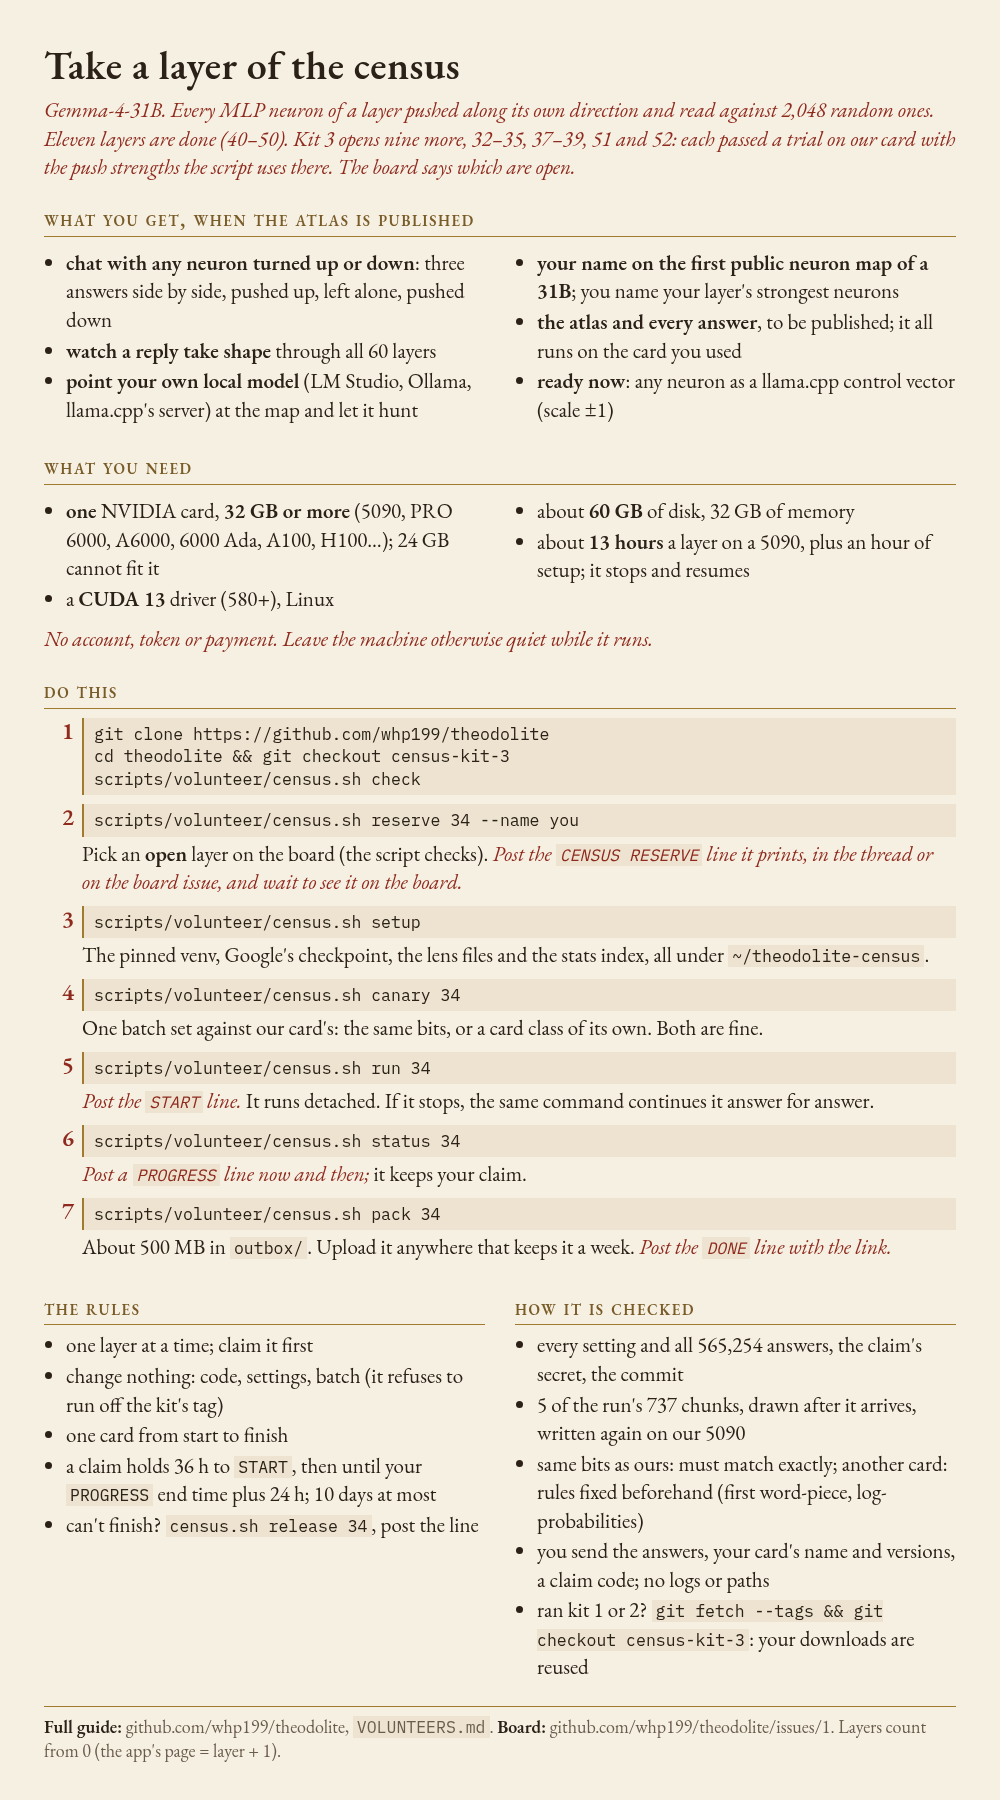
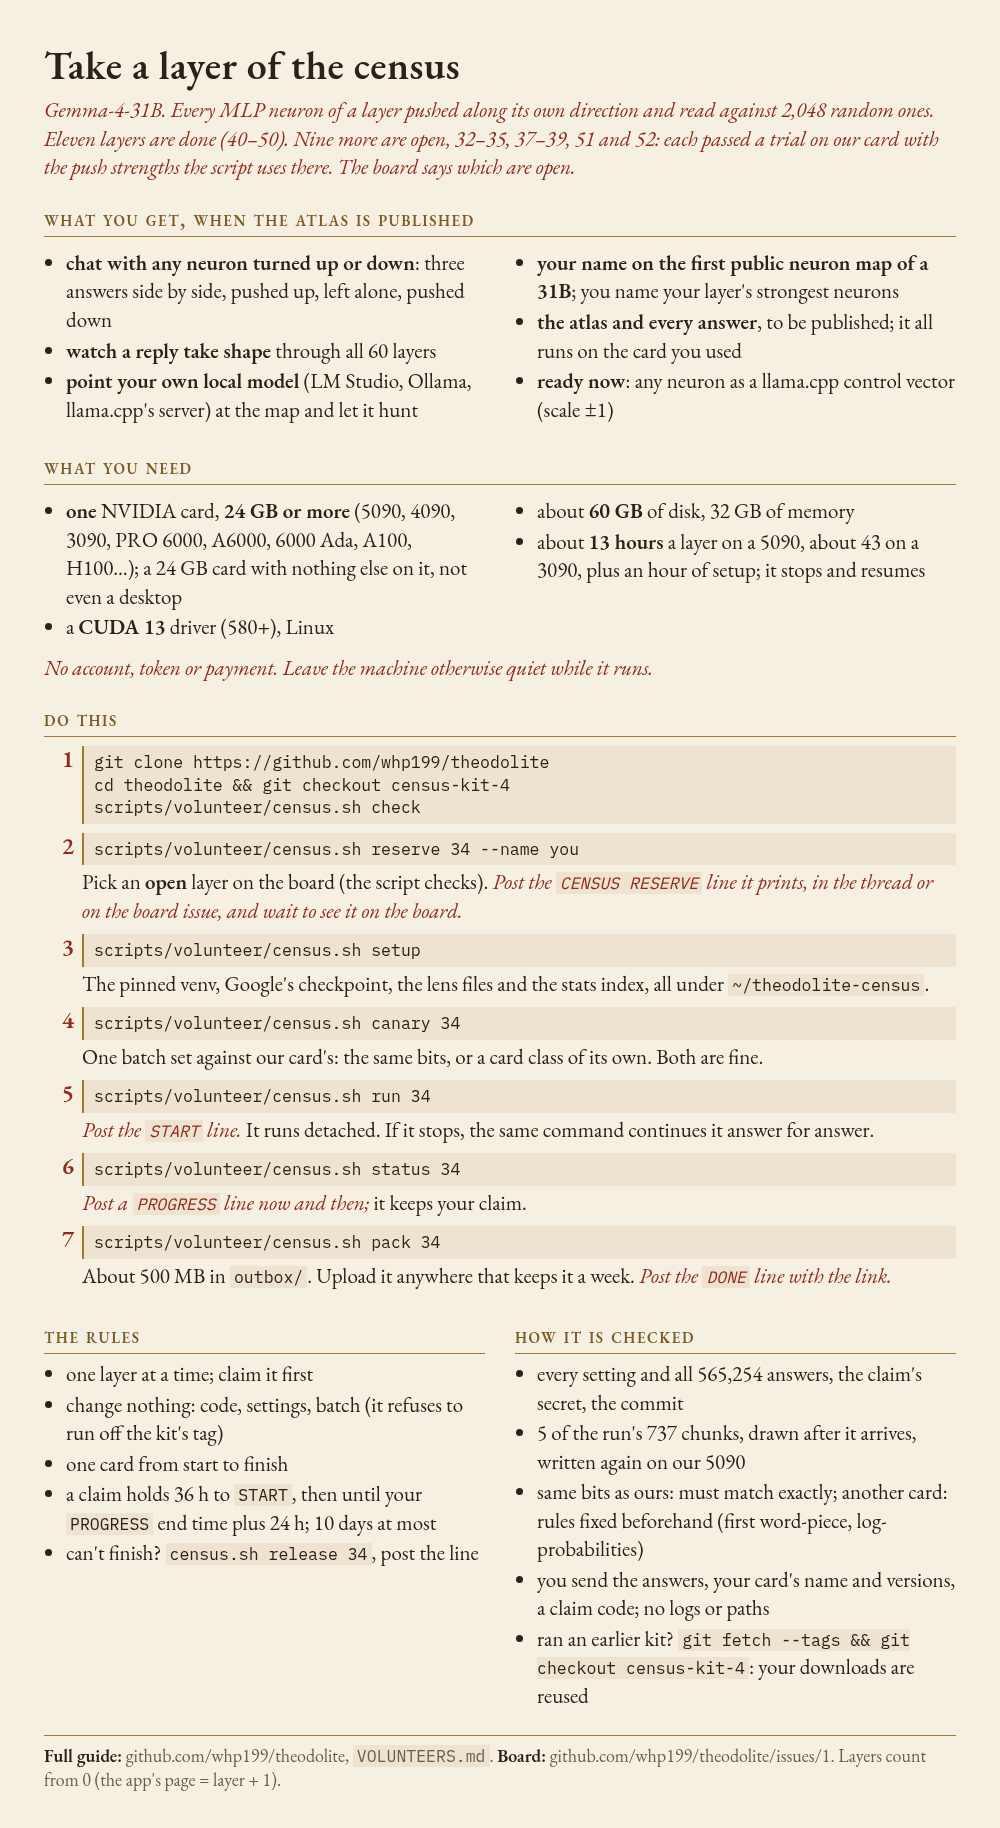
Kit 4 cut: kit 3 opened to 24 GB cards; the same nine layers open, the same answers
The owner's word of 14 November 2026: "Definitely need to incorporate the 24gb PR if it will work." It works here.

- Memory, on the home card with the difference held aside (scripts/measure_batches.py --hold-mib): with 23,900 MiB
  free, the kit's floor, the six worst batches a layer can write were written with 217 MiB to spare; with 23,600
  they ran out of memory at the second; with a headless RTX 3090's 24,124 the least to spare was 721 MiB.
- Answers: all seventeen of kit 3's home canaries taken again with the pull request's loader are the ones kept, every
  field of every answer, and layer 45's is kit 1's byte for byte.
- The board is kit 4's with kit 3's states: nine layers open (32 to 35, 37 to 39, 51 and 52); layer 36 closed, the
  home card taking it. No one had claimed a layer under kit 3.
- VOLUNTEERS.md, the one-page guide and the thread post (1,994 characters) name census-kit-4, say a 24 GB card must
  have nothing else on it, and give a 3090's time, about 43 hours a layer. README and ROADMAP section vi say so too.

Checked on the CPU stand-in: check_volunteer_kit 68 (63 before; five are the pull request's, of the split load),
check_census 283, check_local_only 1144, check_atlas_index 178. Not shown yet: a whole layer from a 24 GB card
through the intake, and a 4090.

Changed region(s): [[0.031, 0.0311, 0.961, 0.9956], [0.744, 0.5289, 0.93, 0.56]]

diff --git a/volunteers/post/guide.html b/volunteers/post/guide.html
@@ -31,7 +31,7 @@ code { font-size:16.5px; background:rgba(160,122,46,.10); padding:0 4px; }
 
 <h1>Take a layer of the census</h1>
 <p class="sub">Gemma-4-31B. Every MLP neuron of a layer pushed along its own direction and read against 2,048 random
-ones. Eleven layers are done (40–50). Kit 3 opens nine more, 32–35, 37–39, 51 and 52: each passed a trial on our card with
+ones. Eleven layers are done (40–50). Nine more are open, 32–35, 37–39, 51 and 52: each passed a trial on our card with
 the push strengths the script uses there. The board says which are open.</p>
 
 <h2>what you get, when the atlas is published</h2>
@@ -56,7 +56,7 @@ the push strengths the script uses there. The board says which are open.</p>
 </ul>
 <ul>
 <li>about <b>60 GB</b> of disk, 32 GB of memory</li>
-<li>about <b>13 hours</b> a layer on a 5090, plus an hour of setup; it stops and resumes</li>
+<li>about <b>13 hours</b> a layer on a 5090, about 43 on a 3090, plus an hour of setup; it stops and resumes</li>
 </ul>
 </div>
 <p class="rub">No account, token or payment. Leave the machine otherwise quiet while it runs.</p>
@@ -64,7 +64,7 @@ the push strengths the script uses there. The board says which are open.</p>
 <h2>do this</h2>
 <ol class="steps">
 <li><div><pre>git clone https://github.com/whp199/theodolite
-cd theodolite &amp;&amp; git checkout census-kit-3
+cd theodolite &amp;&amp; git checkout census-kit-4
 scripts/volunteer/census.sh check</pre></div></li>
 <li><div><pre>scripts/volunteer/census.sh reserve 34 --name you</pre>
 <p class="say">Pick an <b>open</b> layer on the board (the script checks). <span class="rub">Post the <code>CENSUS RESERVE</code>
@@ -101,7 +101,7 @@ continues it answer for answer.</p></div></li>
 <li>5 of the run's 737 chunks, drawn after it arrives, written again on our 5090</li>
 <li>same bits as ours: must match exactly; another card: rules fixed beforehand (first word-piece, log-probabilities)</li>
 <li>you send the answers, your card's name and versions, a claim code; no logs or paths</li>
-<li>ran kit 1 or 2? <code>git fetch --tags &amp;&amp; git checkout census-kit-3</code>: your downloads are reused</li>
+<li>ran an earlier kit? <code>git fetch --tags &amp;&amp; git checkout census-kit-4</code>: your downloads are reused</li>
 </ul>
 </div>
 </div>

diff --git a/VOLUNTEERS.md b/VOLUNTEERS.md
@@ -14,7 +14,7 @@ opened on the board; one whose trial fails is not taken. The first push strength
 further out. At 38 the same push is three times the most a neuron can write, and the text breaks; at 52 it is barely
 once, and the gentler half of the answers hardly moves.
 
-**Kit 3 gives each layer the push strengths whose trial passed there.** Two newer designs count the push in what each
+**Since kit 3 each layer is taken with the push strengths whose trial passed there.** Two newer designs count the push in what each
 neuron can write by itself, its *write ceiling*:
 
 | Layers | Push strengths | Its trial |
@@ -29,6 +29,10 @@ layer 34 passed by the most, and layer 36 by a thousandth on one of its three ch
 and is not on offer. Layer 31 failed its trial, and no push
 strengths have passed a trial at layers 0 to 30 or 53 to 59, so those are not taken yet. **The board says which layers
 are open.** Layers count from 0, as every script counts them (the app's page = layer + 1).
+
+**Kit 4, the kit to use now, is kit 3 opened to 24 GB cards** (14 November 2026, from a contributor's pull request).
+The layers, the push strengths and the answers are the same. The loader keeps a part of the model the census never
+reads off the card, and `census.sh check` asks how much of the card is free.
 
 **The board** shows which layer is whose: the pinned *Census layer board* issue, <https://github.com/whp199/theodolite/issues/1>.
 
@@ -59,8 +63,10 @@ chats, you try for yourself.
 - **One NVIDIA card with at least 24 GB**, for example an RTX 5090, RTX 4090 or 3090, RTX PRO 6000, A6000, 6000 Ada,
   L40S, A100, H100 or H200. The 4-bit model rests at about 18 GiB on the card and a batch of answers takes up to about
   4.2 GiB more; it is not split across cards. **A 24 GB card must be headless**: no desktop or other process on it,
-  since the longest batches leave only about 300 MiB of a 3090's free memory (`census.sh check` asks for 23,900 MiB
-  free). A 3090 has been measured; a 4090 has not yet been tried.
+  since the longest batches leave under a GiB of its free memory: about 800 MiB on a headless RTX 3090, and about
+  200 MiB on our own 5090 held down to the 23,900 MiB free that `census.sh check` asks for. A run that runs out of
+  memory stops and is continued by the same command; it never changes its batch. A 3090 has been measured; a 4090
+  has not yet been tried.
 - **A driver for CUDA 13**: `nvidia-smi` shows `CUDA Version: 13.0` or later (driver 580 or newer).
 - **Linux**, about **60 GB** free disk, 32 GB of memory, and `git`, `curl`, `zstd`, `tar` and `flock` (util-linux),
   and a C compiler (`gcc`), which Triton may need for its kernels.
@@ -80,7 +86,7 @@ below.
 ```bash
 mkdir -p ~/theodolite-census && cd ~/theodolite-census
 git clone https://github.com/whp199/theodolite.git && cd theodolite
-git checkout census-kit-3
+git checkout census-kit-4
 scripts/volunteer/census.sh check                      # can this machine take a layer?
 ```
 
@@ -157,13 +163,13 @@ for someone else.
 
 ```bash
 cd ~/theodolite-census/theodolite          # logos-theodolite, in a checkout cloned before the repository was renamed
-git fetch --tags && git checkout census-kit-3
+git fetch --tags && git checkout census-kit-4
 scripts/volunteer/census.sh check
 ```
 
-Kit 3 pins the same Python packages, the same checkpoint and the same stats index as kits 1 and 2, so `setup` finds
+Kit 4 pins the same Python packages, the same checkpoint and the same stats index as kits 1 to 3, so `setup` finds
 them and has little left to do. Run it once anyway, then go on from step 1 with a new `reserve`: a claim made with an
-earlier kit does not carry over, and the board refuses a line made with one. Layers 39 and 51 are taken with kit 3
+earlier kit does not carry over, and the board refuses a line made with one. Layers 39 and 51 are taken with kit 4
 now, by the same command kit 2 took them with.
 
 ## The rules
@@ -264,8 +270,8 @@ drawn on the map without gilt.
 - **`reserve` says the layer is not open**: the board shows it waiting for its trial, not taken, or held by someone
   else. Pick a layer shown OPEN.
 - **`reserve` says the board is another kit's**: your checkout is at an older tag. `git fetch --tags && git checkout
-  census-kit-3`, then reserve again.
-- **The canary refuses "other settings"**: the checkout isn't at `census-kit-3`, or the stats index isn't the kit's.
+  census-kit-4`, then reserve again.
+- **The canary refuses "other settings"**: the checkout isn't at `census-kit-4`, or the stats index isn't the kit's.
 - **The run stopped**: run the same `census.sh run` again. The log is `~/theodolite-census/logs/L<layer>-<design>.log`
   (`L34-match_ceil.log`).
 - **Out of memory**: close everything else on the card. The batch is fixed at 64, so a card that can't hold it
@@ -292,9 +298,9 @@ llama-server -m gemma-4-31B-it-QAT-Q4_0.gguf --control-vector-scaled theodolite-
   those are the scales the census read there. For several neurons: `--set 45:13641,44:801:-0.5 -o mix.gguf`.
 - **What it reads**: two tensors of the layer and the 31 MB stats index, on the CPU, in seconds. Nothing is downloaded.
   - With the kit set up, run `. ~/theodolite-census/env.sh` first: it finds the checkpoint and the stats index you
-    already have. Kit 2's and kit 3's checkouts hold the script; run it there with the kit's Python
+    already have. Checkouts of kit 2 and later hold the script; run it there with the kit's Python
     (`~/theodolite-census/theodolite/.venv/bin/python`). It writes one new file and changes none, so the checkout
-    stays as `census.sh` needs it. (Kit 1's tag is older than the script: check out `census-kit-3`.)
+    stays as `census.sh` needs it. (Kit 1's tag is older than the script: check out `census-kit-4`.)
   - Without the kit: add `--gguf` with your own GGUF of Gemma-4-31B-it and `--stats` with the kit's stats index
     (`https://github.com/whp199/theodolite/releases/download/census-kit-1/act_scale.npz`, sha256
[1 lines of base64/hex data omitted]

diff --git a/volunteers/BOARD.md b/volunteers/BOARD.md
@@ -1,6 +1,6 @@
 # The census: which layer is whose
 
-Kit 3 (census-kit-3). How to take a layer: [VOLUNTEERS.md](https://github.com/whp199/theodolite/blob/main/VOLUNTEERS.md). Post `CENSUS ...` lines as comments here or in the thread; the board is updated by hand, so give it a little while. Layers count from 0 (page = layer + 1). A layer marked *not taken* is not offered: each layer outside 40–50 is trialled on the home card (about 70 minutes) before it is offered, and no push strengths have passed a trial there.
+Kit 4 (census-kit-4). How to take a layer: [VOLUNTEERS.md](https://github.com/whp199/theodolite/blob/main/VOLUNTEERS.md). Post `CENSUS ...` lines as comments here or in the thread; the board is updated by hand, so give it a little while. Layers count from 0 (page = layer + 1). A layer marked *not taken* is not offered: each layer outside 40–50 is trialled on the home card (about 70 minutes) before it is offered, and no push strengths have passed a trial there.
 
 | Layer | Page | State | Who | Card | When | Note |
 |---:|---:|---|---|---|---|---|
@@ -10,7 +10,7 @@ Kit 3 (census-kit-3). How to take a layer: [VOLUNTEERS.md](https://github.com/wh
 | 33 | 34 | OPEN |  |  |  | match_ceil; its trial passed, 13 November 2026 |
 | 34 | 35 | OPEN |  |  |  | match_ceil; its trial passed, 13 November 2026 |
 | 35 | 36 | OPEN |  |  |  | match_ceil; its trial passed, 13 November 2026 |
-| 36 | 37 | closed |  |  |  | match_ceil; its trial passed, by a thousandth on one of its checks, 13 November 2026: held for the home card |
+| 36 | 37 | closed |  |  |  | match_ceil; its trial passed, by a thousandth on one of its checks, 13 November 2026: the home card is taking it |
 | 37 | 38 | OPEN |  |  |  | match_ceil; its trial passed, 13 November 2026 |
 | 38 | 39 | OPEN |  |  |  | soft_ceil; its trial passed, 13 November 2026 |
 | 39 | 40 | OPEN |  |  |  | break_rel; its trial passed, 12 November 2026 |
@@ -38,4 +38,4 @@ Judged:
 - L44 Kimi-chan 5c3e7396: accepted (9-10 Nov 2026, its own card class, spot-checked; passed layer 45's gates)
 - L50 anon b153da82: accepted (10-11 Nov 2026, its own card class, spot-checked; passed layer 45's gates)
 
-Holds: 36 h after RESERVE to START; then the run's end time (from PROGRESS) plus 24 h; at most 10 days in all. Updated 2026-11-14T00:38Z.
+Holds: 36 h after RESERVE to START; then the run's end time (from PROGRESS) plus 24 h; at most 10 days in all. Updated 2026-11-14T01:01Z.

diff --git a/ROADMAP.md b/ROADMAP.md
@@ -1092,6 +1092,20 @@ layers, the determinism run and the sampled push on 29 October). In this section
     has been taken with `match_ceil` or `soft_ceil`, on any card; the reader for a whole layer taken with them is
     not written (the trials’ is `ceil_read.py`); and whether the intake carries a volunteer card’s own writer
     floor through to the page is not checked.
+  - **Kit 4: kit 3 opened to 24 GB cards** (cut 14 November 2026, tag `census-kit-4`; the owner’s word that day:
+    “Definitely need to incorporate the 24gb PR if it will work”). The pull request (whp199/theodolite#2, by
+    bethanylong and her agent) makes two changes. `census.sh check` asks for 23,900 MiB free as well as a card of
+    24,000 MiB. And the loader puts the vision tower on the CPU, where it is dropped, so it no longer sets the load’s
+    peak on the card. It works here. On the home card with all but 23,900 MiB held aside, the six worst batches a
+    layer can write (every row to 48 word-pieces) were written with 217 MiB to spare; with all but 23,600 they ran
+    out of memory at the second; with as much free as a headless RTX 3090 has (24,124 MiB) the least to spare was
+    721 MiB (`scripts/measure_batches.py --hold-mib`, 14 November; the author measured 768 MiB to spare on a 3090
+    itself). The answers are the same: all seventeen of kit 3’s home canaries, taken again with the new loader, are
+    the ones kept, and layer 45’s is kit 1’s. It is a new kit because the kit’s file changed. Its layers, designs,
+    board and canaries are kit 3’s, which was live for about an hour and had no claim. A 24 GB layer is a card class
+    of its own, read against its own controls and spot-checked as the RTX PRO 6000 layers were; a 3090 takes about
+    43 hours a layer, by the author’s sixteenth of layer 45. *Not shown yet:* a whole layer from a 24 GB card
+    through the intake, and a 4090.
 - **A census read by seeking, and every census at once** (built 12 November 2026; CPU checks on the stand-in, then
   driven on the eleven layers through the page). The server used to read a layer’s whole run, 2.7 GB, to show its list
   or one neuron’s answers, and kept two layers: 21 and 30 seconds to open a layer (timed on layers 43 and 46), again at

diff --git a/README.md b/README.md
@@ -70,7 +70,7 @@ board) and fails at 38. One whose two counts are set a layer at a time, where th
 amount, passes at layers 33–38 (32–37 on the board) and fails at 32. The doses are counted calibrated at those eight
 layers, and a third kit offers them to volunteers beside layers 40 and 52, each with the design that passed there
 ([VOLUNTEERS.md](VOLUNTEERS.md)); layer 37 (36 on the board), which passed one check by a thousandth, is held for the
-home card. The other thirty-nine layers (1–32 and 54–60) have no design that passed there. Where a census’s doses are not counted
+home card. Since 14 November 2026 (kit 4) a 24 GB card with nothing else on it can take a layer. The other thirty-nine layers (1–32 and 54–60) have no design that passed there. Where a census’s doses are not counted
 calibrated the atlas marks it “doses not calibrated at this layer” and inks it without gilt.
 
 <table>
